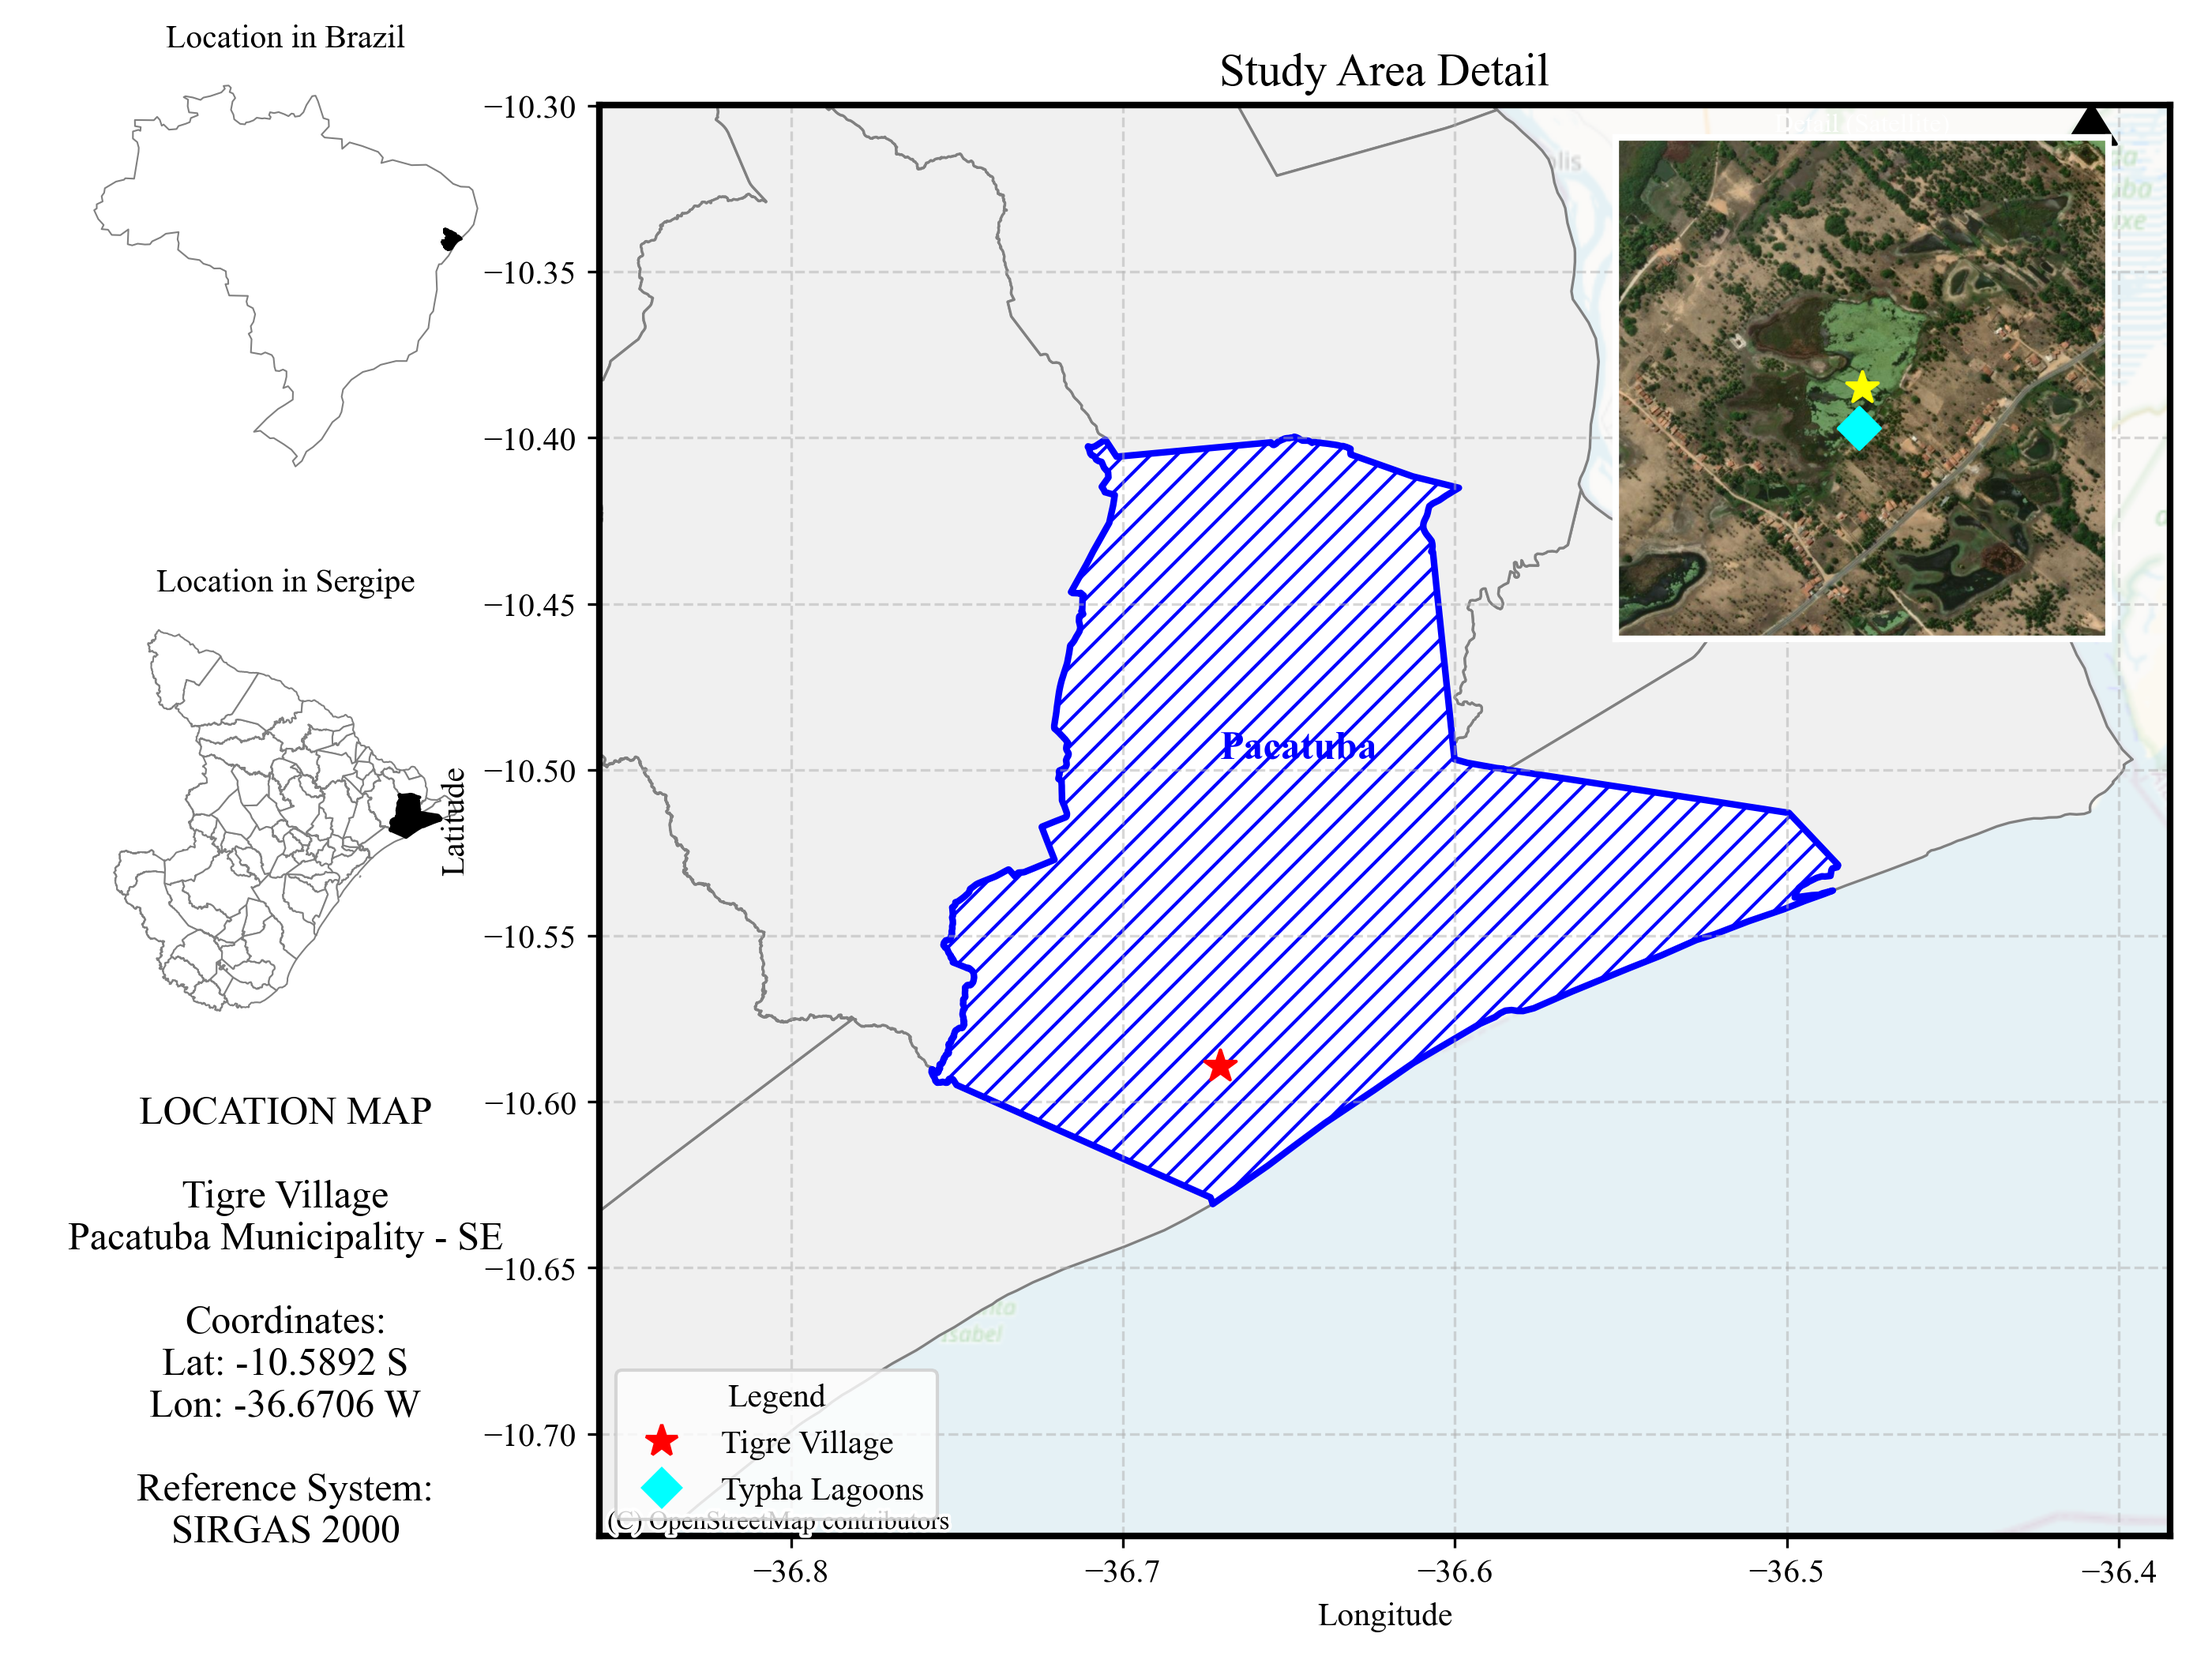
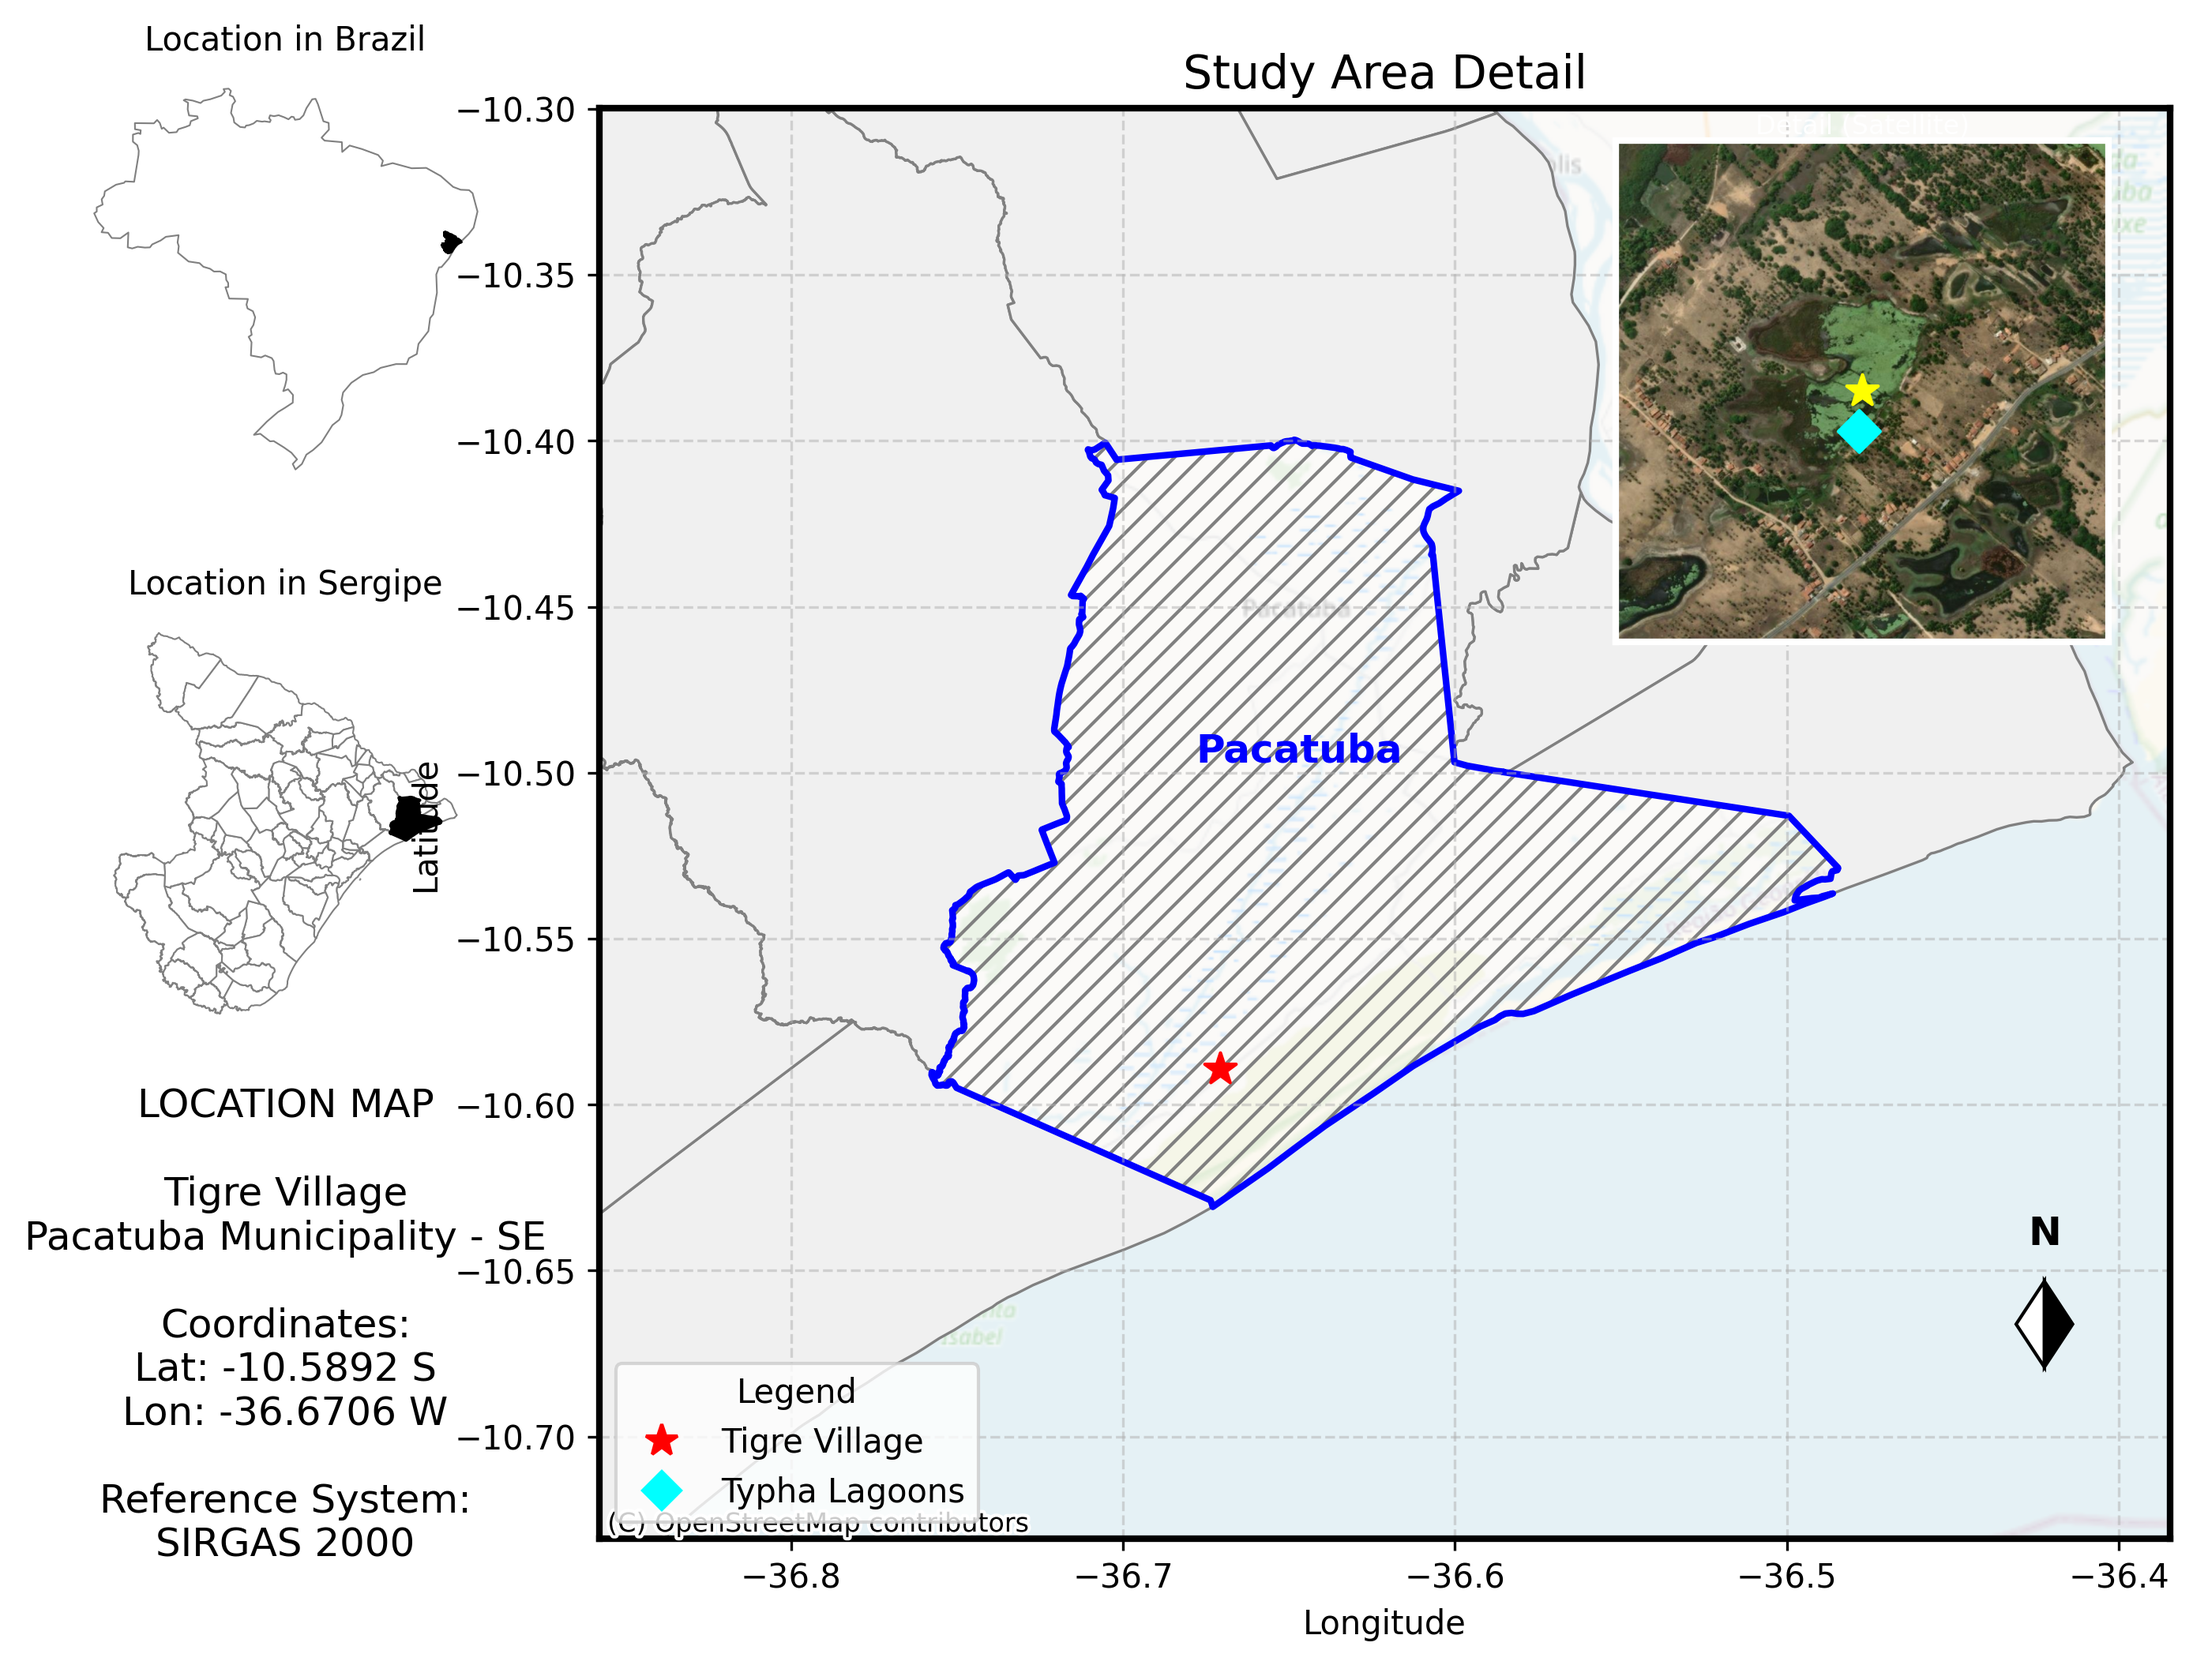
modified:   2-DADOSLC/mapa/gerar_mapa_python.py 	modified:   3-IMAGENS/mapa_tigre_en.png

diff --git a/2-DADOSLC/mapa/gerar_mapa_python.py b/2-DADOSLC/mapa/gerar_mapa_python.py
@@ -14,14 +14,24 @@ except ImportError:
     print("Aviso: 'contextily' não encontrado. O mapa será gerado sem fundo de satélite/rua.")
 
 # Configurações de Fonte
-plt.rcParams['font.family'] = 'serif'
-plt.rcParams['font.serif'] = ['Times New Roman'] + plt.rcParams['font.serif']
+plt.rcParams['font.family'] = 'sans-serif'
+plt.rcParams['font.serif'] = ['Aptos'] + plt.rcParams['font.serif']
 
-def add_north_arrow(ax, x, y, arrow_length=0.1):
-    """Adiciona uma seta norte simples ao eixo."""
-    ax.annotate('N', xy=(x, y + arrow_length), xytext=(x, y),
-                arrowprops=dict(facecolor='black', width=5, headwidth=15),
-                ha='center', va='center', fontsize=12, xycoords=ax.transAxes)
+def add_north_arrow(ax, x, y, size=0.03):
+    """Adiciona uma seta norte estilizada (Agulha de Bússola)."""
+    # Coordenadas relativas para a agulha (Losango alongado)
+    # Parte Esquerda (Branca/Vazia)
+    left_x = [x, x - size*0.6, x]
+    left_y = [y + size, y, y - size]
+    ax.fill(left_x, left_y, transform=ax.transAxes, color='white', edgecolor='black', linewidth=1)
+    
+    # Parte Direita (Preta)
+    right_x = [x, x + size*0.6, x]
+    right_y = [y + size, y, y - size]
+    ax.fill(right_x, right_y, transform=ax.transAxes, color='black', edgecolor='black', linewidth=1)
+    
+    # Letra N
+    ax.text(x, y + size + 0.02, 'N', transform=ax.transAxes, ha='center', va='bottom', fontsize=12, fontweight='bold')
 
 def add_scale_bar(ax, length, location=(0.5, 0.05), linewidth=3):
     """
@@ -154,13 +164,17 @@ def main():
     ylim = ([bounds[1]-0.1, bounds[3]+0.1])
     
     # Plotar municípios vizinhos (recorte)
-    se_mun.cx[xlim[0]:xlim[1], ylim[0]:ylim[1]].plot(
+    # Excluir Pacatuba para não pintar o fundo de cinza
+    vizinhos = se_mun[se_mun['NM_MUN'] != 'Pacatuba']
+    vizinhos.cx[xlim[0]:xlim[1], ylim[0]:ylim[1]].plot(
         ax=ax_main, color='#f0f0f0', edgecolor='gray', linewidth=0.8, aspect=1
     )
     
     # Destaque Pacatuba
-    # Adicionando hachura (hatch='///') para destaque
-    pacatuba.plot(ax=ax_main, color='white', edgecolor='gray', linewidth=2.0, aspect=1, hatch='///')
+    # 1. Hachura Cinza (sem borda)
+    pacatuba.plot(ax=ax_main, facecolor='none', edgecolor='gray', linewidth=0, aspect=1, hatch='///')
+    # 2. Borda Azul (sem hachura)
+    pacatuba.plot(ax=ax_main, facecolor='none', edgecolor='blue', linewidth=2.0, aspect=1)
     
     # Adicionar nome do Município
     # Ajuste manual da posição se necessário, ou usar centroide
@@ -239,7 +253,8 @@ def main():
     ax_main.grid(True, linestyle='--', alpha=0.5)
     
     # Norte e Escala (Manuais e simples)
-    add_north_arrow(ax_main, 0.95, 0.90)
+    # Posicionando o Norte no canto inferior direito para não sobrepor o inset
+    add_north_arrow(ax_main, 0.92, 0.15)
     # Escala aproximada visual (ajuste conforme necessário)
     # ax_main.text(0.95, 0.05, "Escala Gráfica", transform=ax_main.transAxes, ha='right')
 
@@ -253,7 +268,7 @@ def main():
     output_dir = os.path.abspath(os.path.join(os.path.dirname(__file__), "../../3-IMAGENS"))
     if not os.path.exists(output_dir):
         os.makedirs(output_dir)
-    output_file = os.path.join(output_dir, "mapa_tigre_python.png")
+    output_file = os.path.join(output_dir, "mapa_tigre_en.png")
     
     try:
         plt.savefig(output_file, dpi=300, bbox_inches='tight')
